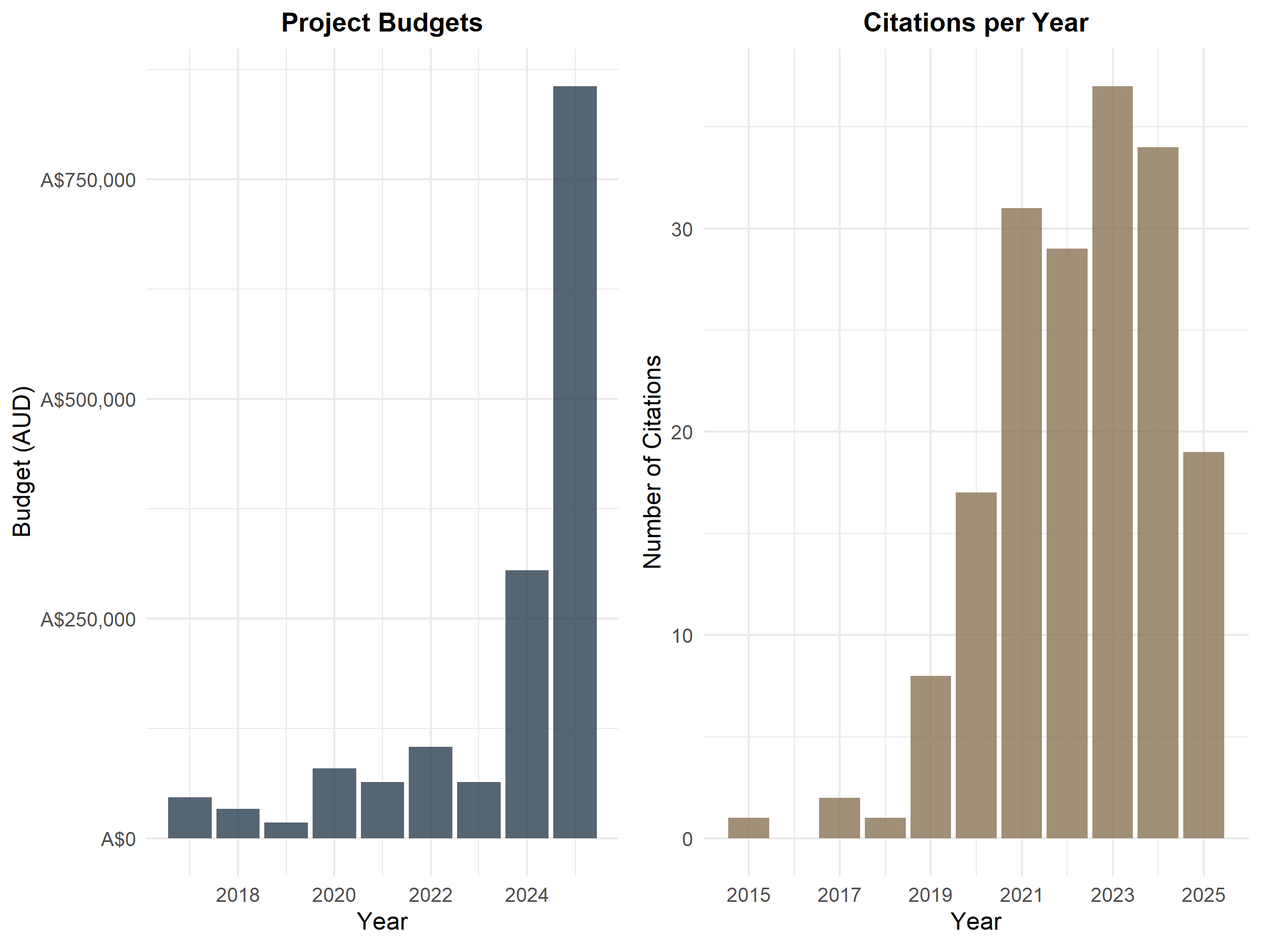
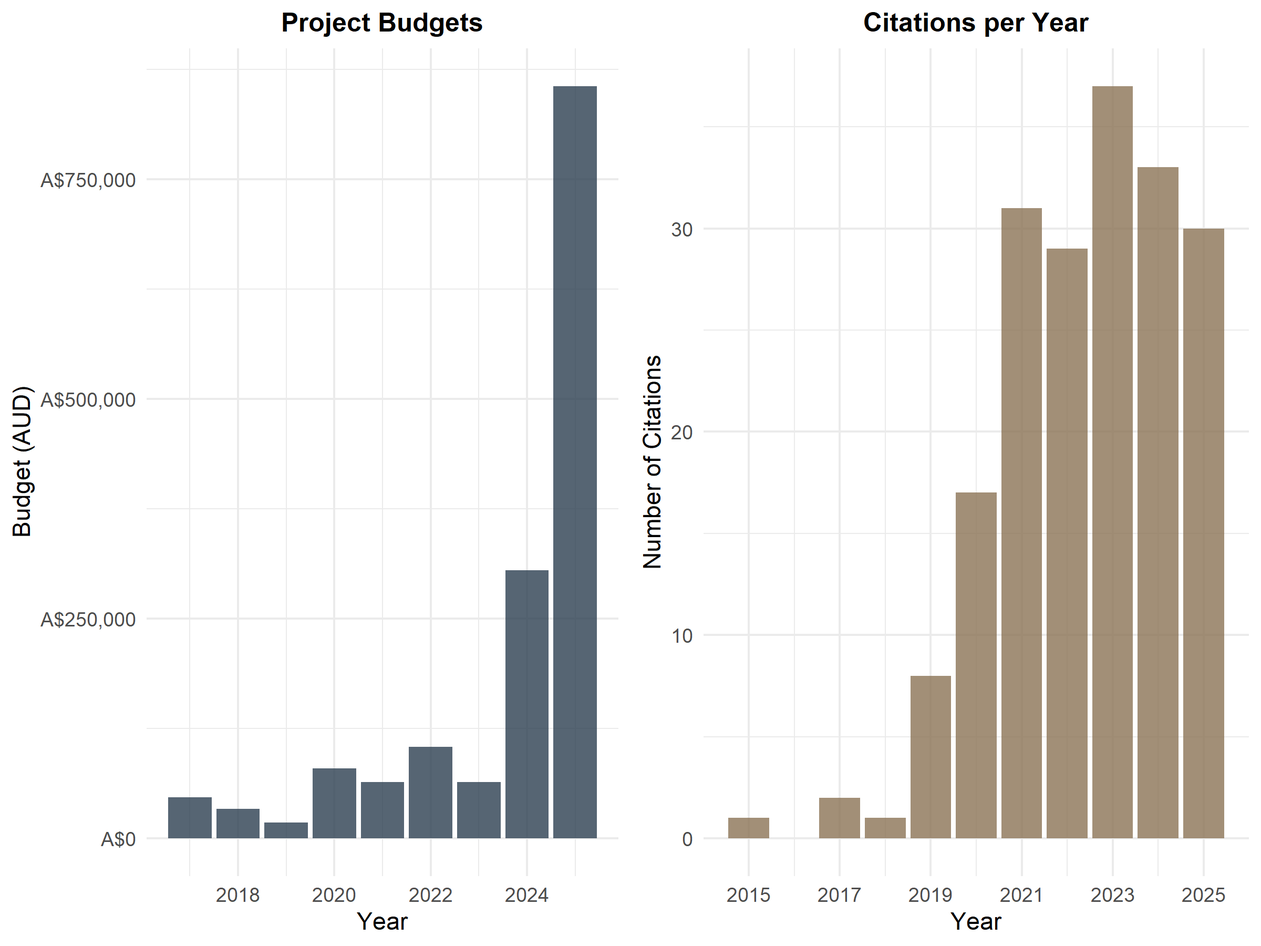
Built site for gh-pages

Changed region(s): [[0.9375, 0.2178, 0.9688, 0.4978], [0.9062, 0.1556, 0.9375, 0.1867]]

diff --git a/network.html b/network.html
@@ -238,8 +238,8 @@ ul.task-list li input[type="checkbox"] {
 
 <div class="cell">
 <div class="cell-output-display">
-<div class="visNetwork html-widget html-fill-item" id="htmlwidget-f405be06bfd9855a32f3" style="width:100%;height:487px;"></div>
-<script type="application/json" data-for="htmlwidget-f405be06bfd9855a32f3">{"x":{"nodes":{"id":["Mr  A A Md Rizwan","Dr  C Gunawardane","Prof  KU Maheswari","Dr  W Niroshan","Dr  TS Mock","Dr  T Prasad","Dr  G J G Arachchi","Dr  I Wickramasinghe","Prof  KRD De Silva","Prof  M Kjellevold","Dr  I Aakre","AsPr  DL Callahan","Prof  PHP Prasanna","Ms  A Nordhagen","Dr  A M Reksten","Dr  T Jayampathi","Dr  S H Thilsted","Dr  B Rajeswari","Prof  DS Francis","Ms  TP Hemachandra","Dr  A Bøkevoll","Dr  L M Pincus","Prof  C Jayasinghe","Prof  M Vithanage","Prof  RPNP Rajapakse","Prof  PA Paranagama","Prof C Hicks","Dr K Byrd","Prof H Schönfeldt","Prof M W Markhus","Dr S Astley","Dr R Hannisdal","Ms D Rittenschober","Dr K Fiorella","Ms M Ahern","Dr J Z Mason","Dr E Maire","Ms Y Nanjo","Dr R Ananthan","Ms S Masangwi","Prof M Steiner-Asiedu","Dr C Golden","Dr F Grande","Dr K Berk","Dr M Moulder","Prof D Lütjohann","Dr J Spanner","Dr N Liland","Dr A Cojocaru","Prof G Wiegertjes","Dr K Soma","Dr I Wijesekara","Ms F Mojarradi","Prof F Donsì","Dr C J Liyanage","Aquatic Foods","Machine Learning","EAF NANSEN Project","NARA","Master's Thesis","Ph.D. Thesis","Consultation","One Food Systems","ERASMUS Collarboration","Dr Thiru C Somasundaram","Dr Lone Hoj","Dr Deepa Varkey","Ms Sara Godinez-Espinosa","Coral nutrition","Dr W Jessie Suneetha"],"label":["Mr  A A Md Rizwan","Dr  C Gunawardane","Prof  KU Maheswari","Dr  W Niroshan","Dr  TS Mock","Dr  T Prasad","Dr  G J G Arachchi","Dr  I Wickramasinghe","Prof  KRD De Silva","Prof  M Kjellevold","Dr  I Aakre","AsPr  DL Callahan","Prof  PHP Prasanna","Ms  A Nordhagen","Dr  A M Reksten","Dr  T Jayampathi","Dr  S H Thilsted","Dr  B Rajeswari","Prof  DS Francis","Ms  TP Hemachandra","Dr  A Bøkevoll","Dr  L M Pincus","Prof  C Jayasinghe","Prof  M Vithanage","Prof  RPNP Rajapakse","Prof  PA Paranagama","Prof C Hicks","Dr K Byrd","Prof H Schönfeldt","Prof M W Markhus","Dr S Astley","Dr R Hannisdal","Ms D Rittenschober","Dr K Fiorella","Ms M Ahern","Dr J Z Mason","Dr E Maire","Ms Y Nanjo","Dr R Ananthan","Ms S Masangwi","Prof M Steiner-Asiedu","Dr C Golden","Dr F Grande","Dr K Berk","Dr M Moulder","Prof D Lütjohann","Dr J Spanner","Dr N Liland","Dr A Cojocaru","Prof G Wiegertjes","Dr K Soma","Dr I Wijesekara","Ms F Mojarradi","Prof F Donsì","Dr C J Liyanage","Aquatic Foods","Machine Learning","EAF NANSEN Project","NARA","Master's Thesis","Ph.D. Thesis","Consultation","One Food Systems","ERASMUS Collarboration","Dr Thiru C Somasundaram","Dr Lone Hoj","Dr Deepa Varkey","Ms Sara Godinez-Espinosa","Coral nutrition","Dr W Jessie Suneetha"],"color.background":["#d62728","#9467bd","#8c564b","#9467bd","#aec7e8","#8c564b","#9467bd","#9467bd","#9467bd","#d62728","#d62728","#e377c2","#9467bd","#d62728","#d62728","#9467bd","#d62728","#8c564b","#e377c2","#9467bd","#d62728","#d62728","#9467bd","#9467bd","#9467bd","#9467bd","#ff7f0e","#ff7f0e","#ff7f0e","#ff7f0e","#ff7f0e","#ff7f0e","#ff7f0e","#ff7f0e","#ff7f0e","#ff7f0e","#ff7f0e","#ff7f0e","#ff7f0e","#ff7f0e","#ff7f0e","#ff7f0e","#ff7f0e","#ff9896","#ff9896","#ff9896","#17becf","#bcbd22","#bcbd22","#bcbd22","#bcbd22","#9467bd","#2ca02c","#2ca02c","#9467bd","#ff7f0e","#2ca02c","#d62728","#9467bd","#8c564b","#e377c2","#17becf","#bcbd22","#ff9896","#1f77b4","#aec7e8","#aec7e8","#aec7e8","#aec7e8","#8c564b"],"title":["Mr  A A Md Rizwan<br>Texas Tech University<br>Colab - EAF NANSEN Project<br>Citations: 173","Dr  C Gunawardane<br>National Institute of Post Harvest Management<br>Colab - NARA<br>Citations: NA","Prof  KU Maheswari<br>Professor Jayashankar Telangana State Agricultural University<br>Colab - Master's Thesis<br>Citations: 259","Dr  W Niroshan<br>National Aquatic Resources Research and Development Agency<br>Colab - NARA<br>Citations: 275","Dr  TS Mock<br>Deakin University<br>Colab - Coral nutrition<br>Citations: 388","Dr  T Prasad<br>Acharya NG Ranga Agricultural University<br>Colab - Master's Thesis<br>Citations: 6855","Dr  G J G Arachchi<br>National Aquatic Resources Research and Development Agency<br>Colab - NARA<br>Citations: NA","Dr  I Wickramasinghe<br>Sri Jayawardenapura University of Sri Lanka<br>Colab - NARA<br>Citations: 1396","Prof  KRD De Silva<br>General Sir John Kotelawala Defence University<br>Colab - NARA<br>Citations: 1227","Prof  M Kjellevold<br>Institute of Marine Research<br>Colab - EAF NANSEN Project<br>Citations: 5952","Dr  I Aakre<br>Institute of Marine Research<br>Colab - EAF NANSEN Project<br>Citations: 1283","AsPr  DL Callahan<br>Deakin University<br>Colab - Ph.D. Thesis<br>Citations: 3935","Prof  PHP Prasanna<br>University of Peradeniya<br>Colab - NARA<br>Citations: 1219","Ms  A Nordhagen<br>Institute of Marine Research<br>Colab - EAF NANSEN Project<br>Citations: NA","Dr  A M Reksten<br>Institute of Marine Research<br>Colab - EAF NANSEN Project<br>Citations: 227","Dr  T Jayampathi<br>University of Adelaide<br>Colab - NARA<br>Citations: 60","Dr  S H Thilsted<br>Consultative Group for International Agricultural Research<br>Colab - EAF NANSEN Project<br>Citations: 11618","Dr  B Rajeswari<br>Professor Jayashankar Telangana State Agricultural University<br>Colab - Master's Thesis<br>Citations: NA","Prof  DS Francis<br>Deakin University<br>Colab - Ph.D. Thesis<br>Citations: 4960","Ms  TP Hemachandra<br>University of Houston<br>Colab - NARA<br>Citations: NA","Dr  A Bøkevoll<br>Institute of Marine Research<br>Colab - EAF NANSEN Project<br>Citations: NA","Dr  L M Pincus<br>World Fish<br>Colab - EAF NANSEN Project<br>Citations: NA","Prof  C Jayasinghe<br>Wayamba University of Sri Lanka<br>Colab - NARA<br>Citations: 1479","Prof  M Vithanage<br>University of Sri Jayewardenepura<br>Colab - NARA<br>Citations: 31147","Prof  RPNP Rajapakse<br>University of Peradeniya<br>Colab - NARA<br>Citations: 7365","Prof  PA Paranagama<br>University of Kelaniya<br>Colab - NARA<br>Citations: 3025","Prof C Hicks<br>Lancaster University<br>Colab - Aquatic Foods<br>Citations: 12833","Dr K Byrd<br>Greenwich University<br>Colab - Aquatic Foods<br>Citations: 914","Prof H Schönfeldt<br>University of Pretoria<br>Colab - Aquatic Foods<br>Citations: 4663","Prof M W Markhus<br>Institute of Marine Research<br>Colab - Aquatic Foods<br>Citations: 1416","Dr S Astley<br>EuroFIR<br>Colab - Aquatic Foods<br>Citations: NA","Dr R Hannisdal<br>Institute of Marine Research<br>Colab - Aquatic Foods<br>Citations: 1191","Ms D Rittenschober<br>Food and Agriculture Organization of the United Nations<br>Colab - Aquatic Foods<br>Citations: NA","Dr K Fiorella<br>Cornell University<br>Colab - Aquatic Foods<br>Citations: 2522","Ms M Ahern<br>Food and Agriculture Organization of the United Nations<br>Colab - Aquatic Foods<br>Citations: 424","Dr J Z Mason<br>Harvard T.H. Chan School of Public Health<br>Colab - Aquatic Foods<br>Citations: 686","Dr E Maire<br>French National Research Institute for Sustainable Development (IRD)<br>Colab - Aquatic Foods<br>Citations: 3173","Ms Y Nanjo<br>Food and Agriculture Organization of the United Nations<br>Colab - Aquatic Foods<br>Citations: NA","Dr R Ananthan<br>National Institure of Nutrition<br>Colab - Aquatic Foods<br>Citations: 2857","Ms S Masangwi<br>Lilongwe University of Agriculture and Natural Resources<br>Colab - Aquatic Foods<br>Citations: NA","Prof M Steiner-Asiedu<br>University of Ghana<br>Colab - Aquatic Foods<br>Citations: 551","Dr C Golden<br>Harvard T.H. Chan School of Public Health<br>Colab - Aquatic Foods<br>Citations: 15935","Dr F Grande<br>Food and Agriculture Organization of the United Nations<br>Colab - Aquatic Foods<br>Citations: NA","Dr K Berk<br>Erasmus Medical Centre<br>Colab - ERASMUS Collarboration<br>Citations: 414","Dr M Moulder<br>Erasmus Medical Centre<br>Colab - ERASMUS Collarboration<br>Citations: 6055","Prof D Lütjohann<br>Bonn University<br>Colab - ERASMUS Collarboration<br>Citations: 28920","Dr J Spanner<br>Focus Pvt Ltd<br>Colab - Consultation<br>Citations: NA","Dr N Liland<br>Institute of Marine Research<br>Colab - One Food Systems<br>Citations: 3135","Dr A Cojocaru<br>University of Stavanger<br>Colab - One Food Systems<br>Citations: 973","Prof G Wiegertjes<br>Wageningen University<br>Colab - One Food Systems<br>Citations: 7537","Dr K Soma<br>Wageningen University<br>Colab - One Food Systems<br>Citations: 2132","Dr I Wijesekara<br>Sri Jayawardenapura University of Sri Lanka<br>Colab - NARA<br>Citations: 6051","Ms F Mojarradi<br>University of Salerno<br>Colab - Machine Learning<br>Citations: 13","Prof F Donsì<br>University of Salerno<br>Colab - Machine Learning<br>Citations: 10367","Dr C J Liyanage<br>BOKU University<br>Colab - NARA<br>Citations: 33","Aquatic Foods","Machine Learning","EAF NANSEN Project","NARA","Master's Thesis","Ph.D. Thesis","Consultation","One Food Systems","ERASMUS Collarboration","Dr Thiru C Somasundaram<br>Deakin University<br>Colab - Main<br>Citations: 180","Dr Lone Hoj<br>AIMS<br>Colab - Coral nutrition<br>Citations: 1902","Dr Deepa Varkey<br>AIMS<br>Colab - Coral nutrition<br>Citations: 422","Ms Sara Godinez-Espinosa<br>AIMS<br>Colab - Coral nutrition<br>Citations: NA","Coral nutrition","Dr W Jessie Suneetha<br>Professor Jayashankar Telangana State Agricultural University<br>Colab - Master's Thesis<br>Citations: 463"],"font.size":[30,30,30,30,30,30,30,30,30,30,30,30,30,30,30,30,30,30,30,30,30,30,30,30,30,30,30,30,30,30,30,30,30,30,30,30,30,30,30,30,30,30,30,30,30,30,30,30,30,30,30,30,30,30,30,40,40,40,40,40,40,40,40,40,40,30,30,30,40,30],"size":[25,25,25,25,25,25,25,25,25,25,25,25,25,25,25,25,25,25,25,25,25,25,25,25,25,25,25,25,25,25,25,25,25,25,25,25,25,25,25,25,25,25,25,25,25,25,25,25,25,25,25,25,25,25,25,40,40,40,40,40,40,40,40,40,40,25,25,25,40,25]},"edges":{"from":["Aquatic Foods","Aquatic Foods","Aquatic Foods","Aquatic Foods","Aquatic Foods","Aquatic Foods","Aquatic Foods","Aquatic Foods","Aquatic Foods","Aquatic Foods","Aquatic Foods","Aquatic Foods","Aquatic Foods","Aquatic Foods","Aquatic Foods","Aquatic Foods","Aquatic Foods","Consultation","ERASMUS Collarboration","ERASMUS Collarboration","ERASMUS Collarboration","Machine Learning","Machine Learning","Master's Thesis","Master's Thesis","Master's Thesis","Master's Thesis","EAF NANSEN Project","EAF NANSEN Project","EAF NANSEN Project","EAF NANSEN Project","EAF NANSEN Project","EAF NANSEN Project","EAF NANSEN Project","EAF NANSEN Project","NARA","NARA","NARA","NARA","NARA","NARA","NARA","NARA","NARA","NARA","NARA","NARA","NARA","NARA","One Food Systems","One Food Systems","One Food Systems","One Food Systems","Ph.D. Thesis","Ph.D. Thesis","Dr Thiru C Somasundaram","Dr Thiru C Somasundaram","Dr Thiru C Somasundaram","Dr Thiru C Somasundaram","Dr Thiru C Somasundaram","Dr Thiru C Somasundaram","Dr Thiru C Somasundaram","Dr Thiru C Somasundaram","Dr Thiru C Somasundaram","Dr Thiru C Somasundaram","Prof  M Kjellevold","Dr K Berk","Dr M Moulder","Dr  S H Thilsted","Prof  DS Francis","Coral nutrition","Coral nutrition","Coral nutrition","Coral nutrition"],"to":["Prof C Hicks","Dr K Byrd","Prof H Schönfeldt","Prof M W Markhus","Dr S Astley","Dr R Hannisdal","Ms D Rittenschober","Dr K Fiorella","Ms M Ahern","Dr J Z Mason","Dr E Maire","Ms Y Nanjo","Dr R Ananthan","Ms S Masangwi","Prof M Steiner-Asiedu","Dr C Golden","Dr F Grande","Dr J Spanner","Dr K Berk","Dr M Moulder","Prof D Lütjohann","Ms F Mojarradi","Prof F Donsì","Prof  KU Maheswari","Dr  T Prasad","Dr  B Rajeswari","Dr W Jessie Suneetha","Mr  A A Md Rizwan","Prof  M Kjellevold","Dr  I Aakre","Ms  A Nordhagen","Dr  A M Reksten","Dr  S H Thilsted","Dr  A Bøkevoll","Dr  L M Pincus","Dr  C Gunawardane","Dr  W Niroshan","Dr  G J G Arachchi","Dr  I Wickramasinghe","Prof  KRD De Silva","Prof  PHP Prasanna","Dr  T Jayampathi","Ms  TP Hemachandra","Prof  C Jayasinghe","Prof  M Vithanage","Prof  RPNP Rajapakse","Prof  PA Paranagama","Dr I Wijesekara","Dr C J Liyanage","Dr N Liland","Dr A Cojocaru","Prof G Wiegertjes","Dr K Soma","AsPr  DL Callahan","Prof  DS Francis","EAF NANSEN Project","NARA","Master's Thesis","Coral nutrition","Ph.D. Thesis","Aquatic Foods","ERASMUS Collarboration","Consultation","One Food Systems","Machine Learning","Aquatic Foods","Aquatic Foods","Aquatic Foods","Aquatic Foods","Coral nutrition","Dr  TS Mock","Dr Lone Hoj","Dr Deepa Varkey","Ms Sara Godinez-Espinosa"]},"nodesToDataframe":true,"edgesToDataframe":true,"options":{"nodes":{"shape":"dot"},"manipulation":{"enabled":false},"height":"100%","width":"100%","physics":{"solver":"forceAtlas2Based","maxVelocity":30,"timestep":0.35,"stabilization":true,"forceAtlas2Based":{"gravitationalConstant":-200,"centralGravity":0.01,"springLength":200,"springConstant":0.08,"damping":0.4}},"layout":{"randomSeed":123},"interaction":{"hover":true,"zoomSpeed":1},"edges":{"width":1.5,"color":"#666666","smooth":true}},"groups":null,"width":null,"height":null,"idselection":{"enabled":false,"style":"width: 150px; height: 26px","useLabels":true,"main":"Select by id"},"byselection":{"enabled":false,"style":"width: 150px; height: 26px","multiple":false,"hideColor":"rgba(200,200,200,0.5)","highlight":false},"main":null,"submain":null,"footer":null,"background":"rgba(0, 0, 0, 0)","highlight":{"enabled":false,"hoverNearest":false,"degree":1,"algorithm":"all","hideColor":"rgba(200,200,200,0.5)","labelOnly":true},"collapse":{"enabled":false,"fit":false,"resetHighlight":true,"clusterOptions":null,"keepCoord":true,"labelSuffix":"(cluster)"},"tooltipStay":300,"tooltipStyle":"position: fixed;visibility:hidden;padding: 5px;white-space: nowrap;font-family: verdana;font-size:14px;font-color:#000000;background-color: #f5f4ed;-moz-border-radius: 3px;-webkit-border-radius: 3px;border-radius: 3px;border: 1px solid #808074;box-shadow: 3px 3px 10px rgba(0, 0, 0, 0.2);"},"evals":[],"jsHooks":{"render":[{"code":"\n    function(el, x) {\n      el.parentNode.style.width = '1050px';\n      el.parentNode.style.height = '1000px';\n      el.parentNode.classList.add('plot-container');\n    }\n  ","data":null}]}}</script>
+<div class="visNetwork html-widget html-fill-item" id="htmlwidget-12858725bd513bb92fec" style="width:100%;height:487px;"></div>
+<script type="application/json" data-for="htmlwidget-12858725bd513bb92fec">{"x":{"nodes":{"id":["Mr  A A Md Rizwan","Dr  C Gunawardane","Prof  KU Maheswari","Dr  W Niroshan","Dr  TS Mock","Dr  T Prasad","Dr  G J G Arachchi","Dr  I Wickramasinghe","Prof  KRD De Silva","Prof  M Kjellevold","Dr  I Aakre","AsPr  DL Callahan","Prof  PHP Prasanna","Ms  A Nordhagen","Dr  A M Reksten","Dr  T Jayampathi","Dr  S H Thilsted","Dr  B Rajeswari","Prof  DS Francis","Ms  TP Hemachandra","Dr  A Bøkevoll","Dr  L M Pincus","Prof  C Jayasinghe","Prof  M Vithanage","Prof  RPNP Rajapakse","Prof  PA Paranagama","Prof C Hicks","Dr K Byrd","Prof H Schönfeldt","Prof M W Markhus","Dr S Astley","Dr R Hannisdal","Ms D Rittenschober","Dr K Fiorella","Ms M Ahern","Dr J Z Mason","Dr E Maire","Ms Y Nanjo","Dr R Ananthan","Ms S Masangwi","Prof M Steiner-Asiedu","Dr C Golden","Dr F Grande","Dr K Berk","Dr M Moulder","Prof D Lütjohann","Dr J Spanner","Dr N Liland","Dr A Cojocaru","Prof G Wiegertjes","Dr K Soma","Dr I Wijesekara","Ms F Mojarradi","Prof F Donsì","Dr C J Liyanage","Aquatic Foods","Machine Learning","EAF NANSEN Project","NARA","Master's Thesis","Ph.D. Thesis","Consultation","One Food Systems","ERASMUS Collarboration","Dr Thiru C Somasundaram","Dr Lone Hoj","Dr Deepa Varkey","Ms Sara Godinez-Espinosa","Coral nutrition","Dr W Jessie Suneetha"],"label":["Mr  A A Md Rizwan","Dr  C Gunawardane","Prof  KU Maheswari","Dr  W Niroshan","Dr  TS Mock","Dr  T Prasad","Dr  G J G Arachchi","Dr  I Wickramasinghe","Prof  KRD De Silva","Prof  M Kjellevold","Dr  I Aakre","AsPr  DL Callahan","Prof  PHP Prasanna","Ms  A Nordhagen","Dr  A M Reksten","Dr  T Jayampathi","Dr  S H Thilsted","Dr  B Rajeswari","Prof  DS Francis","Ms  TP Hemachandra","Dr  A Bøkevoll","Dr  L M Pincus","Prof  C Jayasinghe","Prof  M Vithanage","Prof  RPNP Rajapakse","Prof  PA Paranagama","Prof C Hicks","Dr K Byrd","Prof H Schönfeldt","Prof M W Markhus","Dr S Astley","Dr R Hannisdal","Ms D Rittenschober","Dr K Fiorella","Ms M Ahern","Dr J Z Mason","Dr E Maire","Ms Y Nanjo","Dr R Ananthan","Ms S Masangwi","Prof M Steiner-Asiedu","Dr C Golden","Dr F Grande","Dr K Berk","Dr M Moulder","Prof D Lütjohann","Dr J Spanner","Dr N Liland","Dr A Cojocaru","Prof G Wiegertjes","Dr K Soma","Dr I Wijesekara","Ms F Mojarradi","Prof F Donsì","Dr C J Liyanage","Aquatic Foods","Machine Learning","EAF NANSEN Project","NARA","Master's Thesis","Ph.D. Thesis","Consultation","One Food Systems","ERASMUS Collarboration","Dr Thiru C Somasundaram","Dr Lone Hoj","Dr Deepa Varkey","Ms Sara Godinez-Espinosa","Coral nutrition","Dr W Jessie Suneetha"],"color.background":["#d62728","#9467bd","#8c564b","#9467bd","#aec7e8","#8c564b","#9467bd","#9467bd","#9467bd","#d62728","#d62728","#e377c2","#9467bd","#d62728","#d62728","#9467bd","#d62728","#8c564b","#e377c2","#9467bd","#d62728","#d62728","#9467bd","#9467bd","#9467bd","#9467bd","#ff7f0e","#ff7f0e","#ff7f0e","#ff7f0e","#ff7f0e","#ff7f0e","#ff7f0e","#ff7f0e","#ff7f0e","#ff7f0e","#ff7f0e","#ff7f0e","#ff7f0e","#ff7f0e","#ff7f0e","#ff7f0e","#ff7f0e","#ff9896","#ff9896","#ff9896","#17becf","#bcbd22","#bcbd22","#bcbd22","#bcbd22","#9467bd","#2ca02c","#2ca02c","#9467bd","#ff7f0e","#2ca02c","#d62728","#9467bd","#8c564b","#e377c2","#17becf","#bcbd22","#ff9896","#1f77b4","#aec7e8","#aec7e8","#aec7e8","#aec7e8","#8c564b"],"title":["Mr  A A Md Rizwan<br>Texas Tech University<br>Colab - EAF NANSEN Project<br>Citations: 185","Dr  C Gunawardane<br>National Institute of Post Harvest Management<br>Colab - NARA<br>Citations: NA","Prof  KU Maheswari<br>Professor Jayashankar Telangana State Agricultural University<br>Colab - Master's Thesis<br>Citations: 259","Dr  W Niroshan<br>National Aquatic Resources Research and Development Agency<br>Colab - NARA<br>Citations: 278","Dr  TS Mock<br>Deakin University<br>Colab - Coral nutrition<br>Citations: 408","Dr  T Prasad<br>Acharya NG Ranga Agricultural University<br>Colab - Master's Thesis<br>Citations: 7026","Dr  G J G Arachchi<br>National Aquatic Resources Research and Development Agency<br>Colab - NARA<br>Citations: NA","Dr  I Wickramasinghe<br>Sri Jayawardenapura University of Sri Lanka<br>Colab - NARA<br>Citations: 1487","Prof  KRD De Silva<br>General Sir John Kotelawala Defence University<br>Colab - NARA<br>Citations: 1251","Prof  M Kjellevold<br>Institute of Marine Research<br>Colab - EAF NANSEN Project<br>Citations: 6139","Dr  I Aakre<br>Institute of Marine Research<br>Colab - EAF NANSEN Project<br>Citations: 1346","AsPr  DL Callahan<br>Deakin University<br>Colab - Ph.D. Thesis<br>Citations: 4031","Prof  PHP Prasanna<br>University of Peradeniya<br>Colab - NARA<br>Citations: 1248","Ms  A Nordhagen<br>Institute of Marine Research<br>Colab - EAF NANSEN Project<br>Citations: NA","Dr  A M Reksten<br>Institute of Marine Research<br>Colab - EAF NANSEN Project<br>Citations: 246","Dr  T Jayampathi<br>University of Adelaide<br>Colab - NARA<br>Citations: 63","Dr  S H Thilsted<br>Consultative Group for International Agricultural Research<br>Colab - EAF NANSEN Project<br>Citations: 11618","Dr  B Rajeswari<br>Professor Jayashankar Telangana State Agricultural University<br>Colab - Master's Thesis<br>Citations: NA","Prof  DS Francis<br>Deakin University<br>Colab - Ph.D. Thesis<br>Citations: 5097","Ms  TP Hemachandra<br>University of Houston<br>Colab - NARA<br>Citations: NA","Dr  A Bøkevoll<br>Institute of Marine Research<br>Colab - EAF NANSEN Project<br>Citations: NA","Dr  L M Pincus<br>World Fish<br>Colab - EAF NANSEN Project<br>Citations: NA","Prof  C Jayasinghe<br>Wayamba University of Sri Lanka<br>Colab - NARA<br>Citations: 1533","Prof  M Vithanage<br>University of Sri Jayewardenepura<br>Colab - NARA<br>Citations: 32440","Prof  RPNP Rajapakse<br>University of Peradeniya<br>Colab - NARA<br>Citations: 7434","Prof  PA Paranagama<br>University of Kelaniya<br>Colab - NARA<br>Citations: 3093","Prof C Hicks<br>Lancaster University<br>Colab - Aquatic Foods<br>Citations: 13365","Dr K Byrd<br>Greenwich University<br>Colab - Aquatic Foods<br>Citations: 973","Prof H Schönfeldt<br>University of Pretoria<br>Colab - Aquatic Foods<br>Citations: 4767","Prof M W Markhus<br>Institute of Marine Research<br>Colab - Aquatic Foods<br>Citations: 1466","Dr S Astley<br>EuroFIR<br>Colab - Aquatic Foods<br>Citations: NA","Dr R Hannisdal<br>Institute of Marine Research<br>Colab - Aquatic Foods<br>Citations: 1241","Ms D Rittenschober<br>Food and Agriculture Organization of the United Nations<br>Colab - Aquatic Foods<br>Citations: NA","Dr K Fiorella<br>Cornell University<br>Colab - Aquatic Foods<br>Citations: 2644","Ms M Ahern<br>Food and Agriculture Organization of the United Nations<br>Colab - Aquatic Foods<br>Citations: 454","Dr J Z Mason<br>Harvard T.H. Chan School of Public Health<br>Colab - Aquatic Foods<br>Citations: 733","Dr E Maire<br>French National Research Institute for Sustainable Development (IRD)<br>Colab - Aquatic Foods<br>Citations: 3321","Ms Y Nanjo<br>Food and Agriculture Organization of the United Nations<br>Colab - Aquatic Foods<br>Citations: NA","Dr R Ananthan<br>National Institure of Nutrition<br>Colab - Aquatic Foods<br>Citations: 2950","Ms S Masangwi<br>Lilongwe University of Agriculture and Natural Resources<br>Colab - Aquatic Foods<br>Citations: NA","Prof M Steiner-Asiedu<br>University of Ghana<br>Colab - Aquatic Foods<br>Citations: 551","Dr C Golden<br>Harvard T.H. Chan School of Public Health<br>Colab - Aquatic Foods<br>Citations: 16652","Dr F Grande<br>Food and Agriculture Organization of the United Nations<br>Colab - Aquatic Foods<br>Citations: NA","Dr K Berk<br>Erasmus Medical Centre<br>Colab - ERASMUS Collarboration<br>Citations: 438","Dr M Moulder<br>Erasmus Medical Centre<br>Colab - ERASMUS Collarboration<br>Citations: 6178","Prof D Lütjohann<br>Bonn University<br>Colab - ERASMUS Collarboration<br>Citations: 28920","Dr J Spanner<br>Focus Pvt Ltd<br>Colab - Consultation<br>Citations: NA","Dr N Liland<br>Institute of Marine Research<br>Colab - One Food Systems<br>Citations: 3263","Dr A Cojocaru<br>University of Stavanger<br>Colab - One Food Systems<br>Citations: 1002","Prof G Wiegertjes<br>Wageningen University<br>Colab - One Food Systems<br>Citations: 7537","Dr K Soma<br>Wageningen University<br>Colab - One Food Systems<br>Citations: 2170","Dr I Wijesekara<br>Sri Jayawardenapura University of Sri Lanka<br>Colab - NARA<br>Citations: 6180","Ms F Mojarradi<br>University of Salerno<br>Colab - Machine Learning<br>Citations: 14","Prof F Donsì<br>University of Salerno<br>Colab - Machine Learning<br>Citations: 10623","Dr C J Liyanage<br>BOKU University<br>Colab - NARA<br>Citations: 34","Aquatic Foods","Machine Learning","EAF NANSEN Project","NARA","Master's Thesis","Ph.D. Thesis","Consultation","One Food Systems","ERASMUS Collarboration","Dr Thiru C Somasundaram<br>Deakin University<br>Colab - Main<br>Citations: 190","Dr Lone Hoj<br>AIMS<br>Colab - Coral nutrition<br>Citations: 1933","Dr Deepa Varkey<br>AIMS<br>Colab - Coral nutrition<br>Citations: 435","Ms Sara Godinez-Espinosa<br>AIMS<br>Colab - Coral nutrition<br>Citations: NA","Coral nutrition","Dr W Jessie Suneetha<br>Professor Jayashankar Telangana State Agricultural University<br>Colab - Master's Thesis<br>Citations: 472"],"font.size":[30,30,30,30,30,30,30,30,30,30,30,30,30,30,30,30,30,30,30,30,30,30,30,30,30,30,30,30,30,30,30,30,30,30,30,30,30,30,30,30,30,30,30,30,30,30,30,30,30,30,30,30,30,30,30,40,40,40,40,40,40,40,40,40,40,30,30,30,40,30],"size":[25,25,25,25,25,25,25,25,25,25,25,25,25,25,25,25,25,25,25,25,25,25,25,25,25,25,25,25,25,25,25,25,25,25,25,25,25,25,25,25,25,25,25,25,25,25,25,25,25,25,25,25,25,25,25,40,40,40,40,40,40,40,40,40,40,25,25,25,40,25]},"edges":{"from":["Aquatic Foods","Aquatic Foods","Aquatic Foods","Aquatic Foods","Aquatic Foods","Aquatic Foods","Aquatic Foods","Aquatic Foods","Aquatic Foods","Aquatic Foods","Aquatic Foods","Aquatic Foods","Aquatic Foods","Aquatic Foods","Aquatic Foods","Aquatic Foods","Aquatic Foods","Consultation","ERASMUS Collarboration","ERASMUS Collarboration","ERASMUS Collarboration","Machine Learning","Machine Learning","Master's Thesis","Master's Thesis","Master's Thesis","Master's Thesis","EAF NANSEN Project","EAF NANSEN Project","EAF NANSEN Project","EAF NANSEN Project","EAF NANSEN Project","EAF NANSEN Project","EAF NANSEN Project","EAF NANSEN Project","NARA","NARA","NARA","NARA","NARA","NARA","NARA","NARA","NARA","NARA","NARA","NARA","NARA","NARA","One Food Systems","One Food Systems","One Food Systems","One Food Systems","Ph.D. Thesis","Ph.D. Thesis","Dr Thiru C Somasundaram","Dr Thiru C Somasundaram","Dr Thiru C Somasundaram","Dr Thiru C Somasundaram","Dr Thiru C Somasundaram","Dr Thiru C Somasundaram","Dr Thiru C Somasundaram","Dr Thiru C Somasundaram","Dr Thiru C Somasundaram","Dr Thiru C Somasundaram","Prof  M Kjellevold","Dr K Berk","Dr M Moulder","Dr  S H Thilsted","Prof  DS Francis","Coral nutrition","Coral nutrition","Coral nutrition","Coral nutrition"],"to":["Prof C Hicks","Dr K Byrd","Prof H Schönfeldt","Prof M W Markhus","Dr S Astley","Dr R Hannisdal","Ms D Rittenschober","Dr K Fiorella","Ms M Ahern","Dr J Z Mason","Dr E Maire","Ms Y Nanjo","Dr R Ananthan","Ms S Masangwi","Prof M Steiner-Asiedu","Dr C Golden","Dr F Grande","Dr J Spanner","Dr K Berk","Dr M Moulder","Prof D Lütjohann","Ms F Mojarradi","Prof F Donsì","Prof  KU Maheswari","Dr  T Prasad","Dr  B Rajeswari","Dr W Jessie Suneetha","Mr  A A Md Rizwan","Prof  M Kjellevold","Dr  I Aakre","Ms  A Nordhagen","Dr  A M Reksten","Dr  S H Thilsted","Dr  A Bøkevoll","Dr  L M Pincus","Dr  C Gunawardane","Dr  W Niroshan","Dr  G J G Arachchi","Dr  I Wickramasinghe","Prof  KRD De Silva","Prof  PHP Prasanna","Dr  T Jayampathi","Ms  TP Hemachandra","Prof  C Jayasinghe","Prof  M Vithanage","Prof  RPNP Rajapakse","Prof  PA Paranagama","Dr I Wijesekara","Dr C J Liyanage","Dr N Liland","Dr A Cojocaru","Prof G Wiegertjes","Dr K Soma","AsPr  DL Callahan","Prof  DS Francis","EAF NANSEN Project","NARA","Master's Thesis","Coral nutrition","Ph.D. Thesis","Aquatic Foods","ERASMUS Collarboration","Consultation","One Food Systems","Machine Learning","Aquatic Foods","Aquatic Foods","Aquatic Foods","Aquatic Foods","Coral nutrition","Dr  TS Mock","Dr Lone Hoj","Dr Deepa Varkey","Ms Sara Godinez-Espinosa"]},"nodesToDataframe":true,"edgesToDataframe":true,"options":{"nodes":{"shape":"dot"},"manipulation":{"enabled":false},"height":"100%","width":"100%","physics":{"solver":"forceAtlas2Based","maxVelocity":30,"timestep":0.35,"stabilization":true,"forceAtlas2Based":{"gravitationalConstant":-200,"centralGravity":0.01,"springLength":200,"springConstant":0.08,"damping":0.4}},"layout":{"randomSeed":123},"interaction":{"hover":true,"zoomSpeed":1},"edges":{"width":1.5,"color":"#666666","smooth":true}},"groups":null,"width":null,"height":null,"idselection":{"enabled":false,"style":"width: 150px; height: 26px","useLabels":true,"main":"Select by id"},"byselection":{"enabled":false,"style":"width: 150px; height: 26px","multiple":false,"hideColor":"rgba(200,200,200,0.5)","highlight":false},"main":null,"submain":null,"footer":null,"background":"rgba(0, 0, 0, 0)","highlight":{"enabled":false,"hoverNearest":false,"degree":1,"algorithm":"all","hideColor":"rgba(200,200,200,0.5)","labelOnly":true},"collapse":{"enabled":false,"fit":false,"resetHighlight":true,"clusterOptions":null,"keepCoord":true,"labelSuffix":"(cluster)"},"tooltipStay":300,"tooltipStyle":"position: fixed;visibility:hidden;padding: 5px;white-space: nowrap;font-family: verdana;font-size:14px;font-color:#000000;background-color: #f5f4ed;-moz-border-radius: 3px;-webkit-border-radius: 3px;border-radius: 3px;border: 1px solid #808074;box-shadow: 3px 3px 10px rgba(0, 0, 0, 0.2);"},"evals":[],"jsHooks":{"render":[{"code":"\n    function(el, x) {\n      el.parentNode.style.width = '1050px';\n      el.parentNode.style.height = '1000px';\n      el.parentNode.classList.add('plot-container');\n    }\n  ","data":null}]}}</script>
 </div>
 </div>
 

diff --git a/scholar_citations.html b/scholar_citations.html
@@ -268,56 +268,56 @@ Processing 1/70: Mr  A A Md Rizwan - Found 56 publications
 Processing 2/70: Dr  C Gunawardane
 Processing 3/70: Prof  KU Maheswari
 Processing 4/70: Dr  W Niroshan - Found 21 publications
-Processing 5/70: Dr  TS Mock - Found 21 publications
-Processing 6/70: Dr  T Prasad - Found 233 publications
+Processing 5/70: Dr  TS Mock - Found 24 publications
+Processing 6/70: Dr  T Prasad - Found 237 publications
 Processing 7/70: Dr  G J G Arachchi
-Processing 8/70: Dr  I Wickramasinghe - Found 261 publications
-Processing 9/70: Prof  KRD De Silva - Found 110 publications
-Processing 10/70: Prof  M Kjellevold - Found 175 publications
-Processing 11/70: Dr  I Aakre - Found 69 publications
-Processing 12/70: AsPr  DL Callahan - Found 120 publications
+Processing 8/70: Dr  I Wickramasinghe - Found 265 publications
+Processing 9/70: Prof  KRD De Silva - Found 111 publications
+Processing 10/70: Prof  M Kjellevold - Found 177 publications
+Processing 11/70: Dr  I Aakre - Found 70 publications
+Processing 12/70: AsPr  DL Callahan - Found 123 publications
 Processing 13/70: Prof  PHP Prasanna - Found 100 publications
 Processing 14/70: Ms  A Nordhagen
 Processing 15/70: Dr  A M Reksten - Found 16 publications
 Processing 16/70: Dr  T Jayampathi - Found 6 publications
 Processing 17/70: Dr  S H Thilsted
 Processing 18/70: Dr  B Rajeswari
-Processing 19/70: Prof  DS Francis - Found 199 publications
+Processing 19/70: Prof  DS Francis - Found 202 publications
 Processing 20/70: Ms  TP Hemachandra
 Processing 21/70: Dr  A Bøkevoll
 Processing 22/70: Dr  L M Pincus
-Processing 23/70: Prof  C Jayasinghe - Found 120 publications
-Processing 24/70: Prof  M Vithanage - Found 632 publications
+Processing 23/70: Prof  C Jayasinghe - Found 121 publications
+Processing 24/70: Prof  M Vithanage - Found 639 publications
 Processing 25/70: Prof  RPNP Rajapakse - Found 67 publications
-Processing 26/70: Prof  PA Paranagama - Found 240 publications
-Processing 27/70: Prof C Hicks - Found 159 publications
-Processing 28/70: Dr K Byrd - Found 65 publications
-Processing 29/70: Prof H Schönfeldt - Found 279 publications
-Processing 30/70: Prof M W Markhus - Found 64 publications
+Processing 26/70: Prof  PA Paranagama - Found 241 publications
+Processing 27/70: Prof C Hicks - Found 167 publications
+Processing 28/70: Dr K Byrd - Found 66 publications
+Processing 29/70: Prof H Schönfeldt - Found 280 publications
+Processing 30/70: Prof M W Markhus - Found 65 publications
 Processing 31/70: Dr S Astley
 Processing 32/70: Dr R Hannisdal - Found 62 publications
 Processing 33/70: Ms D Rittenschober
-Processing 34/70: Dr K Fiorella - Found 97 publications
-Processing 35/70: Ms M Ahern - Found 48 publications
-Processing 36/70: Dr J Z Mason - Found 26 publications
-Processing 37/70: Dr E Maire - Found 48 publications
+Processing 34/70: Dr K Fiorella - Found 101 publications
+Processing 35/70: Ms M Ahern - Found 47 publications
+Processing 36/70: Dr J Z Mason - Found 28 publications
+Processing 37/70: Dr E Maire - Found 49 publications
 Processing 38/70: Ms Y Nanjo
-Processing 39/70: Dr R Ananthan - Found 91 publications
+Processing 39/70: Dr R Ananthan - Found 93 publications
 Processing 40/70: Ms S Masangwi
 Processing 41/70: Prof M Steiner-Asiedu
-Processing 42/70: Dr C Golden - Found 188 publications
+Processing 42/70: Dr C Golden - Found 196 publications
 Processing 43/70: Dr F Grande
 Processing 44/70: Dr K Berk - Found 61 publications
-Processing 45/70: Dr M Moulder - Found 254 publications
+Processing 45/70: Dr M Moulder - Found 255 publications
 Processing 46/70: Prof D Lütjohann
 Processing 47/70: Dr J Spanner
-Processing 48/70: Dr N Liland - Found 47 publications
-Processing 49/70: Dr A Cojocaru - Found 20 publications
+Processing 48/70: Dr N Liland - Found 48 publications
+Processing 49/70: Dr A Cojocaru - Found 21 publications
 Processing 50/70: Prof G Wiegertjes
-Processing 51/70: Dr K Soma - Found 118 publications
-Processing 52/70: Dr I Wijesekara - Found 139 publications
+Processing 51/70: Dr K Soma - Found 119 publications
+Processing 52/70: Dr I Wijesekara - Found 143 publications
 Processing 53/70: Ms F Mojarradi - Found 2 publications
-Processing 54/70: Prof F Donsì - Found 228 publications
+Processing 54/70: Prof F Donsì - Found 232 publications
 Processing 55/70: Dr C J Liyanage - Found 14 publications
 Processing 56/70: Aquatic Foods
 Processing 57/70: Machine Learning
@@ -328,12 +328,12 @@ Processing 61/70: Ph.D. Thesis
 Processing 62/70: Consultation
 Processing 63/70: One Food Systems
 Processing 64/70: ERASMUS Collarboration
-Processing 65/70: Dr Thiru C Somasundaram - Found 26 publications
-Processing 66/70: Dr Lone Hoj - Found 52 publications
+Processing 65/70: Dr Thiru C Somasundaram - Found 30 publications
+Processing 66/70: Dr Lone Hoj - Found 51 publications
 Processing 67/70: Dr Deepa Varkey - Found 29 publications
 Processing 68/70: Ms Sara Godinez-Espinosa
 Processing 69/70: Coral nutrition
-Processing 70/70: Dr W Jessie Suneetha - Found 82 publications</code></pre>
+Processing 70/70: Dr W Jessie Suneetha - Found 83 publications</code></pre>
 </div>
 <div class="cell-output cell-output-stdout">
 <pre><code>
@@ -392,8 +392,8 @@ Saved citations for Dr W Jessie Suneetha</code></pre>
 Summary of downloaded citations:</code></pre>
 </div>
 <div class="cell-output-display">
-<div class="datatables html-widget html-fill-item" id="htmlwidget-6f2a4279d7e15231cb2c" style="width:100%;height:auto;"></div>
-<script type="application/json" data-for="htmlwidget-6f2a4279d7e15231cb2c">{"x":{"filter":"none","vertical":false,"caption":"<caption>Summary of Downloaded Citations<\/caption>","data":[["Mr  A A Md Rizwan","Dr  W Niroshan","Dr  TS Mock","Dr  T Prasad","Dr  I Wickramasinghe","Prof  KRD De Silva","Prof  M Kjellevold","Dr  I Aakre","AsPr  DL Callahan","Prof  PHP Prasanna","Dr  A M Reksten","Dr  T Jayampathi","Prof  DS Francis","Prof  C Jayasinghe","Prof  M Vithanage","Prof  RPNP Rajapakse","Prof  PA Paranagama","Prof C Hicks","Dr K Byrd","Prof H Schönfeldt","Prof M W Markhus","Dr R Hannisdal","Dr K Fiorella","Ms M Ahern","Dr J Z Mason","Dr E Maire","Dr R Ananthan","Dr C Golden","Dr K Berk","Dr M Moulder","Dr N Liland","Dr A Cojocaru","Dr K Soma","Dr I Wijesekara","Ms F Mojarradi","Prof F Donsì","Dr C J Liyanage","Dr Thiru C Somasundaram","Dr Lone Hoj","Dr Deepa Varkey","Dr W Jessie Suneetha"],["Mr  A A Md Rizwan","Dr  W Niroshan","Dr  TS Mock","Dr  T Prasad","Dr  I Wickramasinghe","Prof  KRD De Silva","Prof  M Kjellevold","Dr  I Aakre","AsPr  DL Callahan","Prof  PHP Prasanna","Dr  A M Reksten","Dr  T Jayampathi","Prof  DS Francis","Prof  C Jayasinghe","Prof  M Vithanage","Prof  RPNP Rajapakse","Prof  PA Paranagama","Prof C Hicks","Dr K Byrd","Prof H Schönfeldt","Prof M W Markhus","Dr R Hannisdal","Dr K Fiorella","Ms M Ahern","Dr J Z Mason","Dr E Maire","Dr R Ananthan","Dr C Golden","Dr K Berk","Dr M Moulder","Dr N Liland","Dr A Cojocaru","Dr K Soma","Dr I Wijesekara","Ms F Mojarradi","Prof F Donsì","Dr C J Liyanage","Dr Thiru C Somasundaram","Dr Lone Hoj","Dr Deepa Varkey","Dr W Jessie Suneetha"],["1aVswOQAAAAJ","yZ1kDjUAAAAJ","FD4ns90AAAAJ","HePdafIAAAAJ","JbCVKLYAAAAJ","mRX1EPkAAAAJ","vf9g-F4AAAAJ","-iQW6jIAAAAJ","sv0TKUsAAAAJ","6YPeas8AAAAJ","oxQCF08AAAAJ","qo2j4fsAAAAJ","ZCBZ13IAAAAJ","4XbPt9QAAAAJ","jcCDYcIAAAAJ","IOffSFwAAAAJ","AFHh5eQAAAAJ","MXn9ep8AAAAJ","Stwf-5MAAAAJ","j1H1wE4AAAAJ","DhAz4WQAAAAJ","Wa2AMDgAAAAJ","chlyh-YAAAAJ","FE3A5dwAAAAJ","Ba4sZu4AAAAJ","ekV-6-8AAAAJ","7pZa8Y0AAAAJ","U7nbE_cAAAAJ","57GkPGoAAAAJ","0yBzGwgAAAAJ","hJQDTE8AAAAJ","7jmtL3QAAAAJ","LhF8F9sAAAAJ","nLMqVFgAAAAJ","b8fh_QUAAAAJ","nufhgoAAAAAJ","d8S--H4AAAAJ","gJy75NwAAAAJ","t56MK_cAAAAJ","Zx7A0XQAAAAJ","rhO5NLAAAAAJ"],[56,21,21,233,261,110,175,69,120,100,16,6,199,120,632,67,240,159,65,279,64,62,97,48,26,48,91,188,61,254,47,20,118,139,2,228,14,26,52,29,82]],"container":"<table class=\"display\">\n  <thead>\n    <tr>\n      <th> <\/th>\n      <th>Collaborator<\/th>\n      <th>Scholar_ID<\/th>\n      <th>Publications_Count<\/th>\n    <\/tr>\n  <\/thead>\n<\/table>","options":{"pageLength":10,"columnDefs":[{"className":"dt-right","targets":3},{"orderable":false,"targets":0},{"name":" ","targets":0},{"name":"Collaborator","targets":1},{"name":"Scholar_ID","targets":2},{"name":"Publications_Count","targets":3}],"order":[],"autoWidth":false,"orderClasses":false}},"evals":[],"jsHooks":[]}</script>
+<div class="datatables html-widget html-fill-item" id="htmlwidget-c71f35cdf83da58e70f2" style="width:100%;height:auto;"></div>
+<script type="application/json" data-for="htmlwidget-c71f35cdf83da58e70f2">{"x":{"filter":"none","vertical":false,"caption":"<caption>Summary of Downloaded Citations<\/caption>","data":[["Mr  A A Md Rizwan","Dr  W Niroshan","Dr  TS Mock","Dr  T Prasad","Dr  I Wickramasinghe","Prof  KRD De Silva","Prof  M Kjellevold","Dr  I Aakre","AsPr  DL Callahan","Prof  PHP Prasanna","Dr  A M Reksten","Dr  T Jayampathi","Prof  DS Francis","Prof  C Jayasinghe","Prof  M Vithanage","Prof  RPNP Rajapakse","Prof  PA Paranagama","Prof C Hicks","Dr K Byrd","Prof H Schönfeldt","Prof M W Markhus","Dr R Hannisdal","Dr K Fiorella","Ms M Ahern","Dr J Z Mason","Dr E Maire","Dr R Ananthan","Dr C Golden","Dr K Berk","Dr M Moulder","Dr N Liland","Dr A Cojocaru","Dr K Soma","Dr I Wijesekara","Ms F Mojarradi","Prof F Donsì","Dr C J Liyanage","Dr Thiru C Somasundaram","Dr Lone Hoj","Dr Deepa Varkey","Dr W Jessie Suneetha"],["Mr  A A Md Rizwan","Dr  W Niroshan","Dr  TS Mock","Dr  T Prasad","Dr  I Wickramasinghe","Prof  KRD De Silva","Prof  M Kjellevold","Dr  I Aakre","AsPr  DL Callahan","Prof  PHP Prasanna","Dr  A M Reksten","Dr  T Jayampathi","Prof  DS Francis","Prof  C Jayasinghe","Prof  M Vithanage","Prof  RPNP Rajapakse","Prof  PA Paranagama","Prof C Hicks","Dr K Byrd","Prof H Schönfeldt","Prof M W Markhus","Dr R Hannisdal","Dr K Fiorella","Ms M Ahern","Dr J Z Mason","Dr E Maire","Dr R Ananthan","Dr C Golden","Dr K Berk","Dr M Moulder","Dr N Liland","Dr A Cojocaru","Dr K Soma","Dr I Wijesekara","Ms F Mojarradi","Prof F Donsì","Dr C J Liyanage","Dr Thiru C Somasundaram","Dr Lone Hoj","Dr Deepa Varkey","Dr W Jessie Suneetha"],["1aVswOQAAAAJ","yZ1kDjUAAAAJ","FD4ns90AAAAJ","HePdafIAAAAJ","JbCVKLYAAAAJ","mRX1EPkAAAAJ","vf9g-F4AAAAJ","-iQW6jIAAAAJ","sv0TKUsAAAAJ","6YPeas8AAAAJ","oxQCF08AAAAJ","qo2j4fsAAAAJ","ZCBZ13IAAAAJ","4XbPt9QAAAAJ","jcCDYcIAAAAJ","IOffSFwAAAAJ","AFHh5eQAAAAJ","MXn9ep8AAAAJ","Stwf-5MAAAAJ","j1H1wE4AAAAJ","DhAz4WQAAAAJ","Wa2AMDgAAAAJ","chlyh-YAAAAJ","FE3A5dwAAAAJ","Ba4sZu4AAAAJ","ekV-6-8AAAAJ","7pZa8Y0AAAAJ","U7nbE_cAAAAJ","57GkPGoAAAAJ","0yBzGwgAAAAJ","hJQDTE8AAAAJ","7jmtL3QAAAAJ","LhF8F9sAAAAJ","nLMqVFgAAAAJ","b8fh_QUAAAAJ","nufhgoAAAAAJ","d8S--H4AAAAJ","gJy75NwAAAAJ","t56MK_cAAAAJ","Zx7A0XQAAAAJ","rhO5NLAAAAAJ"],[56,21,24,237,265,111,177,70,123,100,16,6,202,121,639,67,241,167,66,280,65,62,101,47,28,49,93,196,61,255,48,21,119,143,2,232,14,30,51,29,83]],"container":"<table class=\"display\">\n  <thead>\n    <tr>\n      <th> <\/th>\n      <th>Collaborator<\/th>\n      <th>Scholar_ID<\/th>\n      <th>Publications_Count<\/th>\n    <\/tr>\n  <\/thead>\n<\/table>","options":{"pageLength":10,"columnDefs":[{"className":"dt-right","targets":3},{"orderable":false,"targets":0},{"name":" ","targets":0},{"name":"Collaborator","targets":1},{"name":"Scholar_ID","targets":2},{"name":"Publications_Count","targets":3}],"order":[],"autoWidth":false,"orderClasses":false}},"evals":[],"jsHooks":[]}</script>
 </div>
 </div>
 <section id="notes" class="level3">
